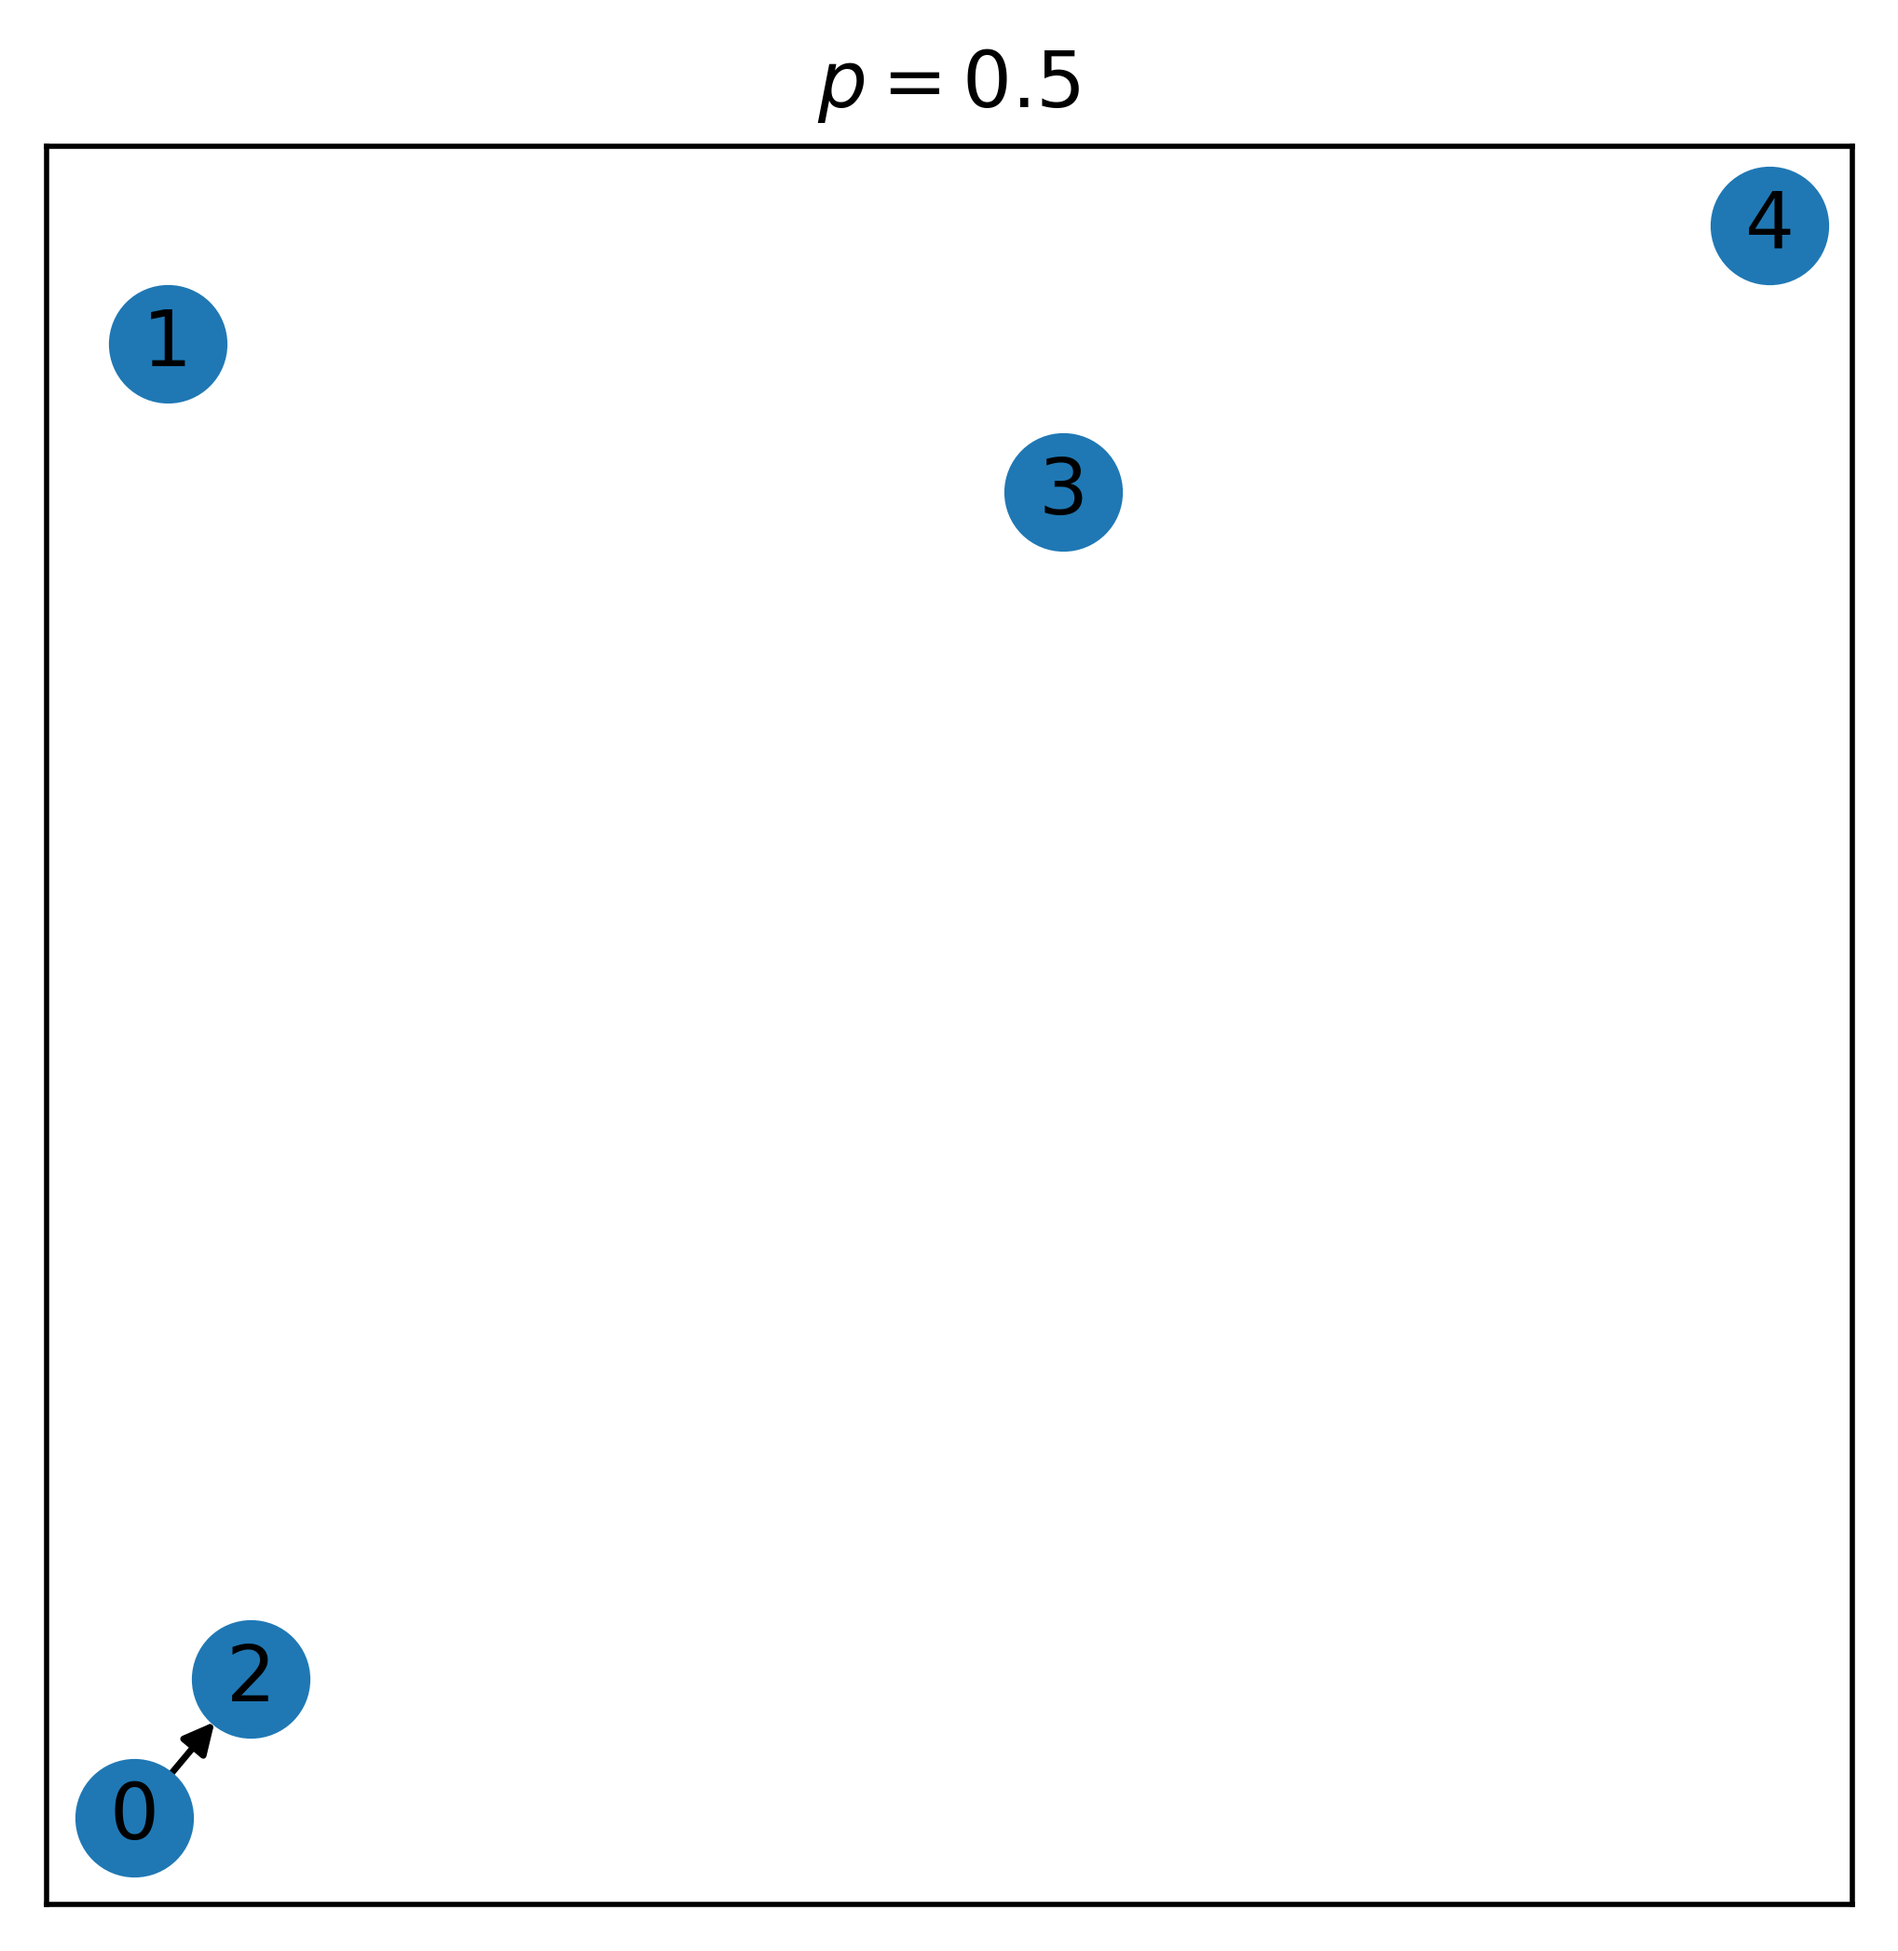
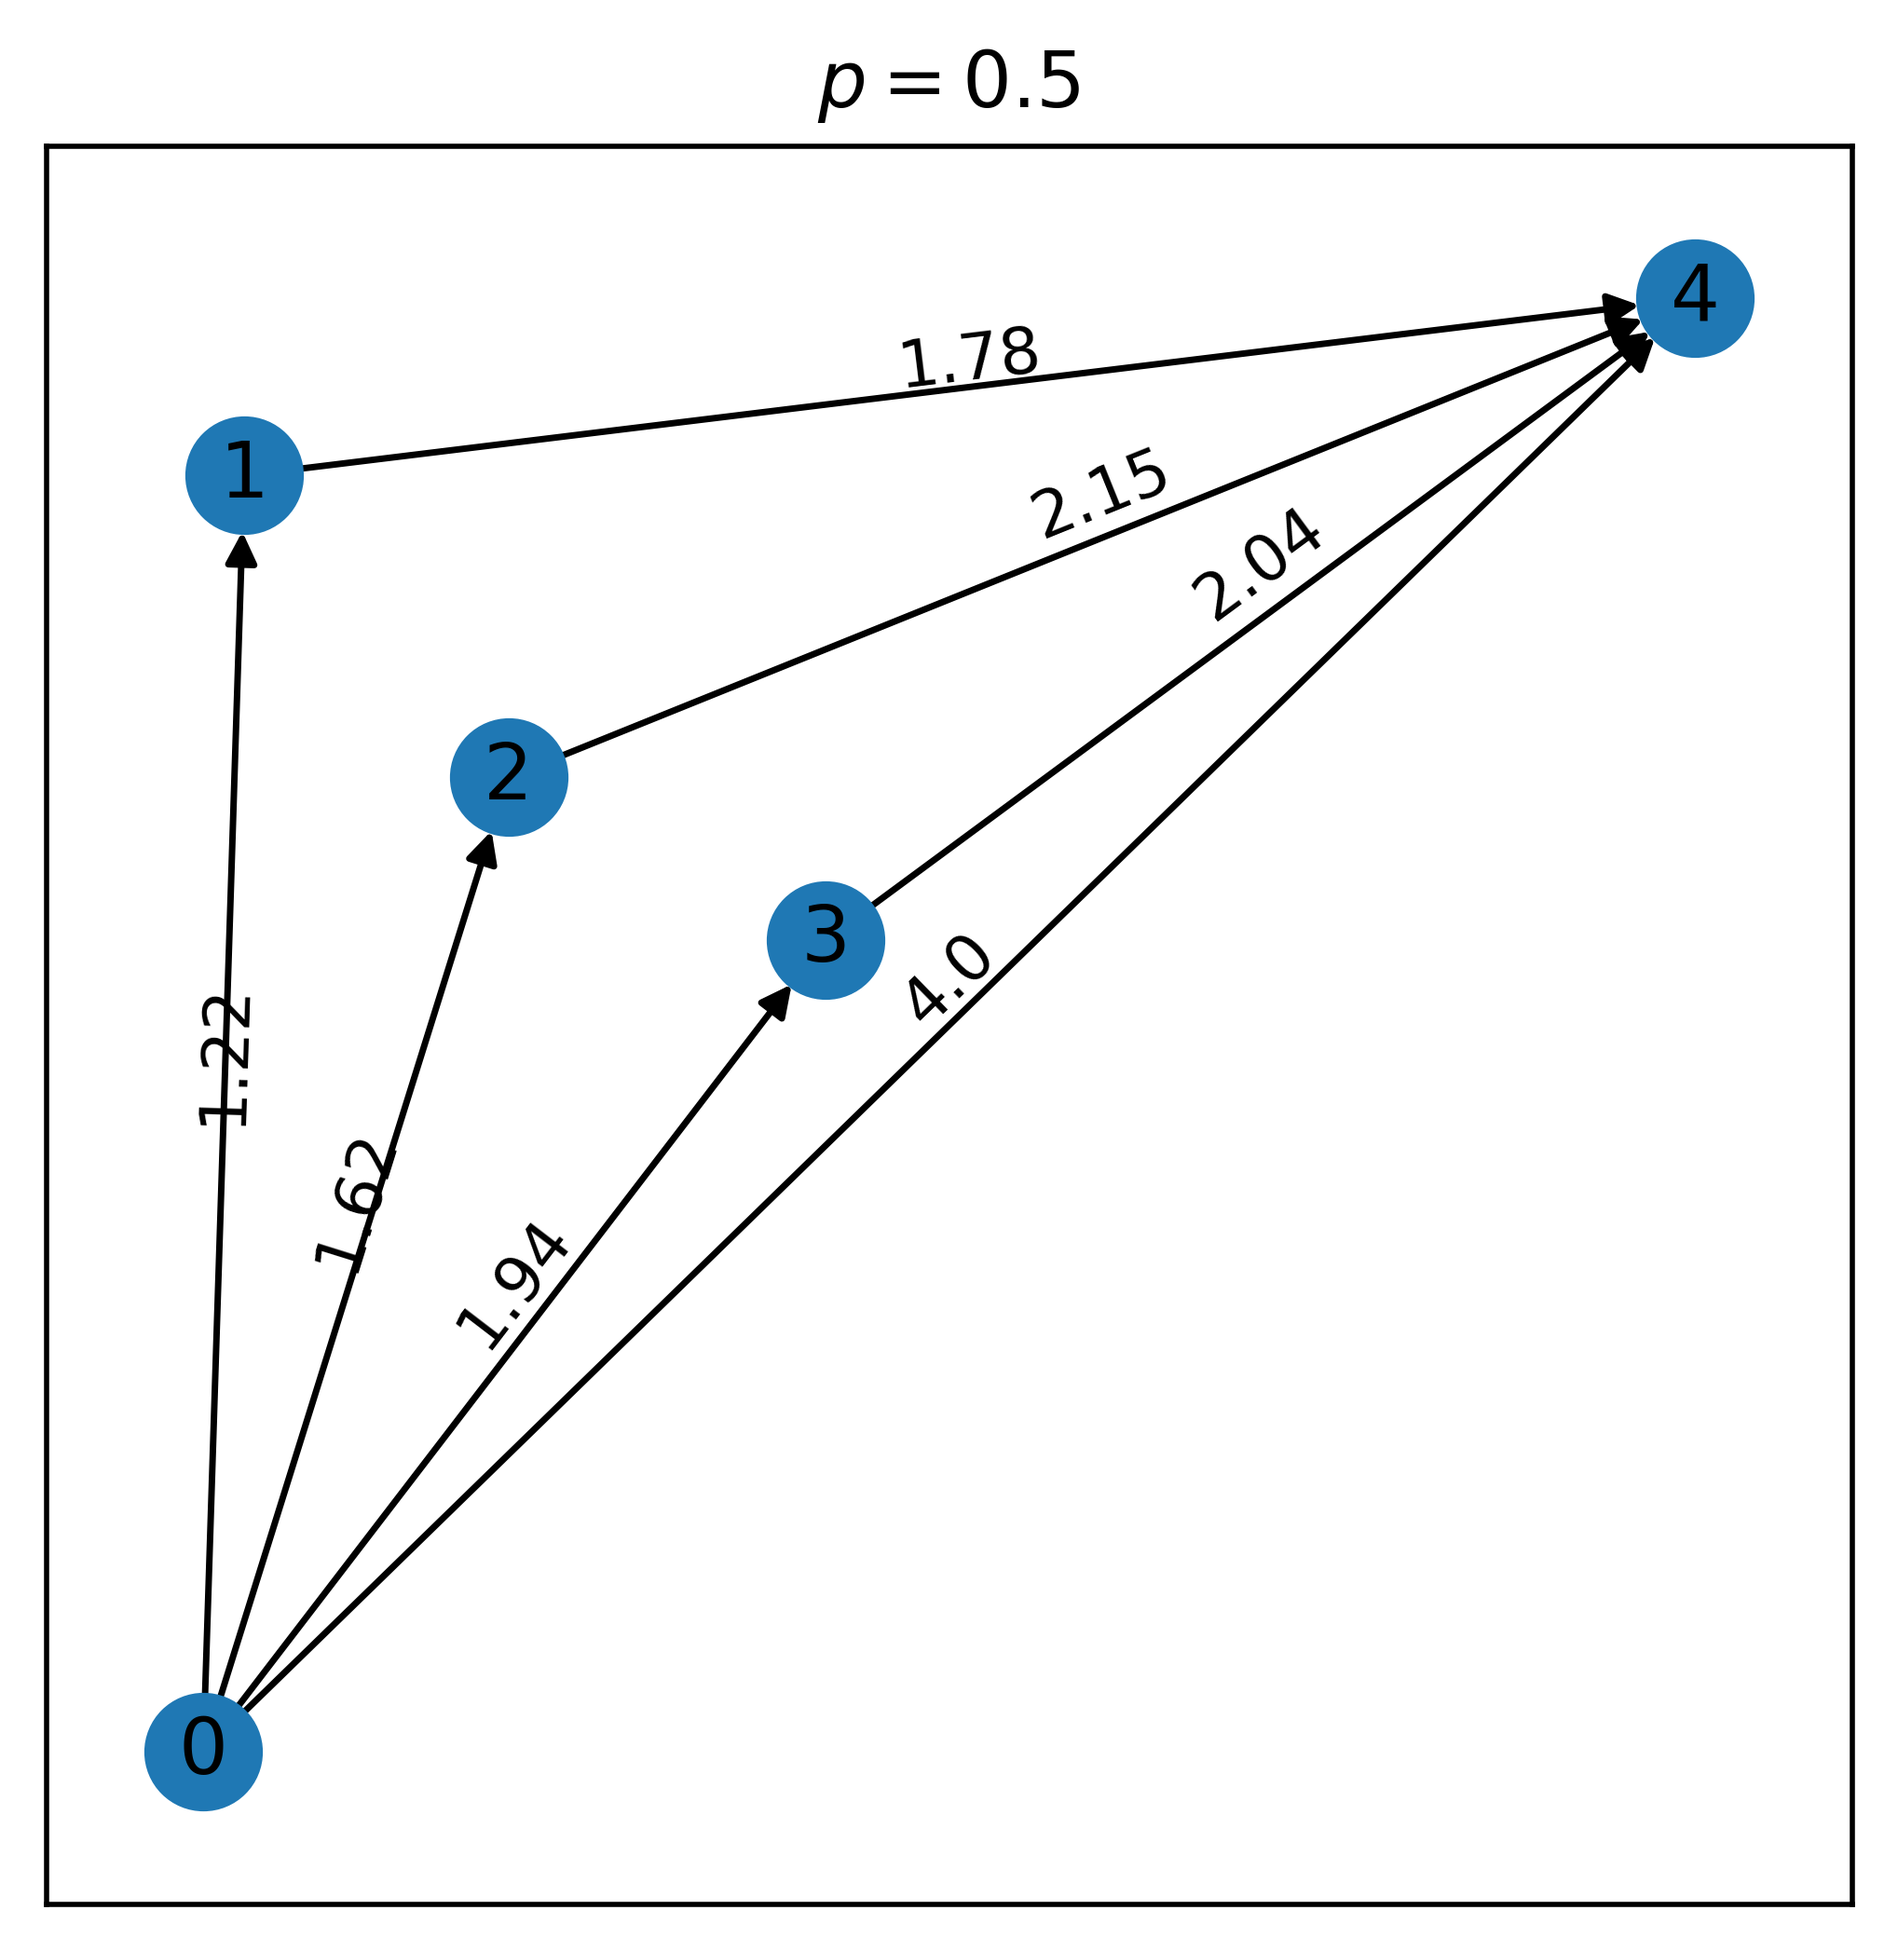
mainly weighted paths
-  shortest/longest weighted paths and their lengths work now

- added ability to show edge weights on graph

- switched to seed = 1 because the graphs look nicer

Note: putting the random seed within the class will make every graph you create have the same node positions, so I kept it outside

diff --git a/Graph.py b/Graph.py
@@ -14,12 +14,13 @@ import networkx.algorithms.shortest_paths.unweighted as s_u
 import networkx.algorithms.shortest_paths.weighted as s_w
 import time
 start_time = time.time()
-
-
+np.random.seed(1) #noticed that if I put this within the class, each p will get the same nodes
+# also using seed 1 as seed 0 gives node 2 right next to node 0,
+# blocking its path to node 4 for the geodesic (doesn't really matter but doesn't look nice)
 class Graph:
     
-    def __init__(self, nodes = 10, p = 2, radius = 0.9, seed = 0, auto_radius = 1,\
-                 geodesic = 0, nx_plot = 0, plt_plot = 0 ):
+    def __init__(self, nodes = 10, p = 2, radius = 0.9, auto_radius = 1,\
+                 geodesic = 0, nx_plot = 0, plt_plot = 0, show_weights = 0):
         """
         We have assumed D = 2 (the dimension)
 
@@ -42,9 +43,8 @@ class Graph:
         None.
 
         """
-        self._seed = np.random.seed(seed)
         self._geodesic = geodesic
-        
+        self._show_weights = show_weights
         self._nodes = nodes
         self._p = p
         self._radius = radius
@@ -107,7 +107,8 @@ class Graph:
 #         plot nx graph
 # =============================================================================
         if nx_plot == 1:
-            self.draw_network(geodesic = self._geodesic)
+            self.draw_network(geodesic = self._geodesic,\
+                              show_weights = self._show_weights)
             
 # =============================================================================
 #         plot plt graph
@@ -174,7 +175,9 @@ class Graph:
                     self._y_coords.append([self._r[i][1], self._r[j][1]])
                     print()
                     # connect i and j on graph
-                    self._graph.add_edge(i,j)
+                    edge_weight = self.L_p(self._pos[i], self._pos[j]) # adding weights
+                    self._graph.add_edge(i,j,\
+                                         weight = edge_weight)
                     
                     
             
@@ -184,7 +187,7 @@ class Graph:
                 
     def longest_path(self):
         
-        return dg.dag_longest_path(self._graph)
+        return dg.dag_longest_path(self._graph, weight = 1) #to override edge data
     
     def longest_path_length(self):
         """
@@ -203,6 +206,24 @@ class Graph:
             DESCRIPTION.
 
         """
+        return dg.dag_longest_path_length(self._graph, weight = 1) # need to specify weight = 1
+        # as it automatically makes it weighted
+    
+    def longest_weighted_path(self):
+        """
+        Finds the longest metric path (which takes weights into account).
+        
+        """
+        # dag_longest_path uses the edge weights by default
+        return dg.dag_longest_path(self._graph)
+    
+    
+    def longest_weighted_path_length(self):
+        """
+        Finds the length of the longest metric path (which takes weights into account).
+        
+        """
+        # dag_longest_path uses the edge weights by default
         return dg.dag_longest_path_length(self._graph)
     
     def shortest_path(self):
@@ -217,6 +238,30 @@ class Graph:
         """
         return nx.shortest_path(self._graph, source = list(self._graph.nodes)[0],\
                                 target = list(self._graph.nodes)[-1])
+    def shortest_path_length(self):
+        """
+        Counts EDGES
+        
+        but note the method = "djikstra" by default, I found an R package that has Minkowski
+        and I'm trying to import it to python
+
+        Returns
+        -------
+        TYPE
+            DESCRIPTION.
+
+        """
+        return nx.shortest_path_length(self._graph, source = list(self._graph.nodes)[0],\
+                                target = list(self._graph.nodes)[-1])
+    
+    def shortest_weighted_path(self):
+        
+        return nx.shortest_path(self._graph, source = list(self._graph.nodes)[0],\
+                                target = list(self._graph.nodes)[-1], weight = "weight")
+    def shortest_weighted_path_length(self):
+         
+        return nx.shortest_path_length(self._graph, source = list(self._graph.nodes)[0],\
+                                 target = list(self._graph.nodes)[-1], weight = "weight")
     
     def shortest_path_bidirectional(self):
         """
@@ -233,38 +278,36 @@ class Graph:
         start = list(self._graph.nodes)[0]
         end = list(self._graph.nodes)[-1]
         return s_u.bidirectional_shortest_path(self._graph,start, end)
-    
-    def shortest_path_length(self):
-        """
-        Counts EDGES
-        
-        but note the method = "djikstra" by default, I found an R package that has Minkowski
-        and I'm trying to import it to python
-
-        Returns
-        -------
-        TYPE
-            DESCRIPTION.
-
-        """
-        return nx.shortest_path_length(self._graph, source = list(self._graph.nodes)[0],\
-                                target = list(self._graph.nodes)[-1])
                 
-    def draw_network(self, geodesic = 0):
+    def draw_network(self, geodesic = 0, show_weights = 0):
         
         if geodesic == 1: #adds geodesic with L_p weight
             start = self._pos[0]
             end = self._pos[self._nodes -1]
             
             geo_dist = self.L_p(start, end)
+            self._geo_dist = geo_dist
             self._graph.add_edge(0, self._nodes - 1, weight = geo_dist)
+        edge_weights = nx.get_edge_attributes(self._graph,'weight')
+        self._edge_weights = edge_weights
         
         fig, ax = plt.subplots()
         fig.set_size_inches(5, 5)
         ax.tick_params(left=True, bottom=True, labelleft=True, labelbottom=True)
         ax.set_title(r"$p = {}$".format(self._p))
         #plt.axis('on') for some reason spyder crashes if using this
-        nx.draw_networkx(self._graph, self._pos, arrows = True, ax = ax)
+        
+        if show_weights == 1:
+            # round the edge weights to 2dp to display on fig
+            edge_weights_2dp = edge_weights.copy()
+            for i in edge_weights_2dp:
+                edge_weights_2dp[i] = round(edge_weights_2dp[i], 2)
+        
+            # this only draws on the edge labels
+            nx.draw_networkx_edge_labels(self._graph, self._pos,\
+                                     edge_labels = edge_weights_2dp, ax = ax,\
+                                         verticalalignment= "baseline")
+        nx.draw_networkx(self._graph, self._pos, arrows = 1, ax = ax)
         plt.savefig("nx_graph_p={}.png".format(str(self._p)), dpi = 500, bbox_inches = "tight")
         plt.show()
         
@@ -281,82 +324,30 @@ class Graph:
         plt.show()   
 
 
-    def triangle(self, n1 = 0, n2 = 4, n3 = 1):
+    def triangle(self, end_node, start_node = 0, intermediate_node = 1):
         """
         Verify the triangle inequality
+        
+        for p<1: order is imperative!
+        Intermediate must be reachable from start by the cube space rule!
+        need to do delta = d(start,intermediate) + d(intermediate, end) - d(start,end)
+        [this doesn't affect p>1]
 
         """
         triangle_inequality_satisfied = False
-        # Gromov delta: d(z,x) + d(z,y) - d(x,y) let n1 = x, n2 = y, n3 = z
-        x = self._pos[n1]
-        y = self._pos[n2]
-        z = self._pos[n3]
         
-        # I was being stupid here and calculated Euclidean distance
-        #delta = ( ((self._pos[n3][0] - self._pos[n1][0]) ** 2 + (self._pos[n3][1] - self._pos[n1][1]) ** 2) ** 1/2) \
-        #        + (( (self._pos[n3][0] - self._pos[n2][0]) ** 2 + (self._pos[n3][1] - self._pos[n2][1]) ** 2) ** 1/2) \
-        #        - (( (self._pos[n1][0] - self._pos[n2][0]) ** 2 + (self._pos[n1][1] - self._pos[n2][1]) ** 2) ** 1/2)
         
-        delta = self.L_p(z,x) + self.L_p(z,y) - self.L_p(x,y)
+        # modified Gromov delta: d(start,intermediate) + d(intermediate, end) - d(start,end)
+        start_coords = self._pos[start_node]
+        intermediate_coords = self._pos[intermediate_node]
+        end_coords = self._pos[end_node]
+        
+        delta = self.L_p(start_coords,intermediate_coords) + self.L_p(intermediate_coords, end_coords)\
+            - self.L_p(start_coords,end_coords)
         
         if delta >= 0:
             triangle_inequality_satisfied = True
             
         print("delta_{} =".format(self._p), delta, "so triangle inequality:", triangle_inequality_satisfied)
         return delta        
-    
-    
-        
-        
-        
-    def add_edge_weights(self):
-        
-        for i in range(len(self._x)):
-            for j in range(i+1, len(self._x)):
-        
-                point_1 = [self._r[i][0], self._r[i][1]]
-                point_2 = [self._r[j][0], self._r[j][1]]
-
-                if self._r[j][1] > self._r[i][1] and \
-                    (self.L_p(point_1, point_2) < self._radius):
-                        
-                    self._x_coords.append([self._r[i][0], self._r[j][0]]) 
-                    self._y_coords.append([self._r[i][1], self._r[j][1]])
-                    
-                    self._pos[i] = (self._r[i][0], self._r[i][1])
-                    self._pos[j] = (self._r[j][0], self._r[j][1])
-                    
-                    edge_weight = self.L_p(self._pos[i], self._pos[j])
-        
-                    self._graph.add_edge(i,j, weight=edge_weight)
-        
-
-    def longest_weighted_path(self):
-        """
-        Finds the longest metric path (which takes weights into account).
-        
-        """
-        weights = []
-        
-        for i in range(len(self._pos)):
-            for j in range(len(self._pos)-1):
-                ij_weight = self.L_p(self._pos[i], self._pos[j])
-                weights.append(ij_weight)
-                
-        return dg.dag_longest_path(self._graph, weight=weights)
-    
-    
-    def longest_weighted_path_length(self):
-        """
-        Finds the length of the longest metric path (which takes weights into account).
-        
-        """
-        weights = []
-        
-        for i in range(len(self._pos)):
-            for j in range(len(self._pos)-1):
-                ij_weight = self.L_p(self._pos[i], self._pos[j])
-                weights.append(ij_weight)
-                
-        return dg.dag_longest_path_length(self._graph, weight=weights)
         

diff --git a/run.py b/run.py
@@ -12,16 +12,16 @@ import networkx as nx
 import Graph as ga
 
 #%% iniialising graphs
-g1 = ga.Graph(nodes = 5, p = 1, geodesic = 1, nx_plot = 1)
-ghalf = ga.Graph(nodes = 5, p = 0.5, geodesic = 1, nx_plot = 1)
-g2 = ga.Graph(nodes = 5, geodesic = 1,  nx_plot = 1) #Euclidean graph
+g1 = ga.Graph(nodes = 5, p = 1, geodesic = 1, nx_plot = 1, show_weights= 1)
+ghalf = ga.Graph(nodes = 5, p = 0.5, geodesic = 1,nx_plot = 1, show_weights= 1)
+g2 = ga.Graph(nodes = 5, p =2, geodesic = 1,  nx_plot = 1, show_weights= 1)
 
 graphs = [[ghalf, 0.5], [g1, 1.0], [g2, 2.0]]
 
 #%% Triangle inequality
-g1.triangle()
-ghalf.triangle()
-g2.triangle()
+g1.triangle(start_node = 0, end_node = 4, intermediate_node = 1)
+ghalf.triangle(start_node= 0, end_node = 4, intermediate_node = 1)
+g2.triangle(start_node= 0, end_node = 4, intermediate_node = 1)
 
 #%% longest\shortest paths
 for i in range(len(graphs)):
@@ -31,4 +31,13 @@ for i in range(len(graphs)):
 
     print("The shortest network path for p = {}  is".format(graphs[i][1]), graphs[i][0].shortest_path(), \
       "with length", graphs[i][0].shortest_path_length())
+    print("The longest metric path for p = {} is".format(graphs[i][1]), graphs[i][0].longest_weighted_path(), \
+      "with length", graphs[i][0].longest_weighted_path_length())
+    print("The shortest metric path for p = {}  is".format(graphs[i][1]), graphs[i][0].shortest_weighted_path(), \
+      "with length", graphs[i][0].shortest_weighted_path_length())
 
+# =============================================================================
+# - the longest metric path for p = 1/2 is the geodesic from (0,0) to (1,1) 
+#   w/ length 4
+# - the geodesic is both the shortest and longest metric path for p = 1
+# =============================================================================
